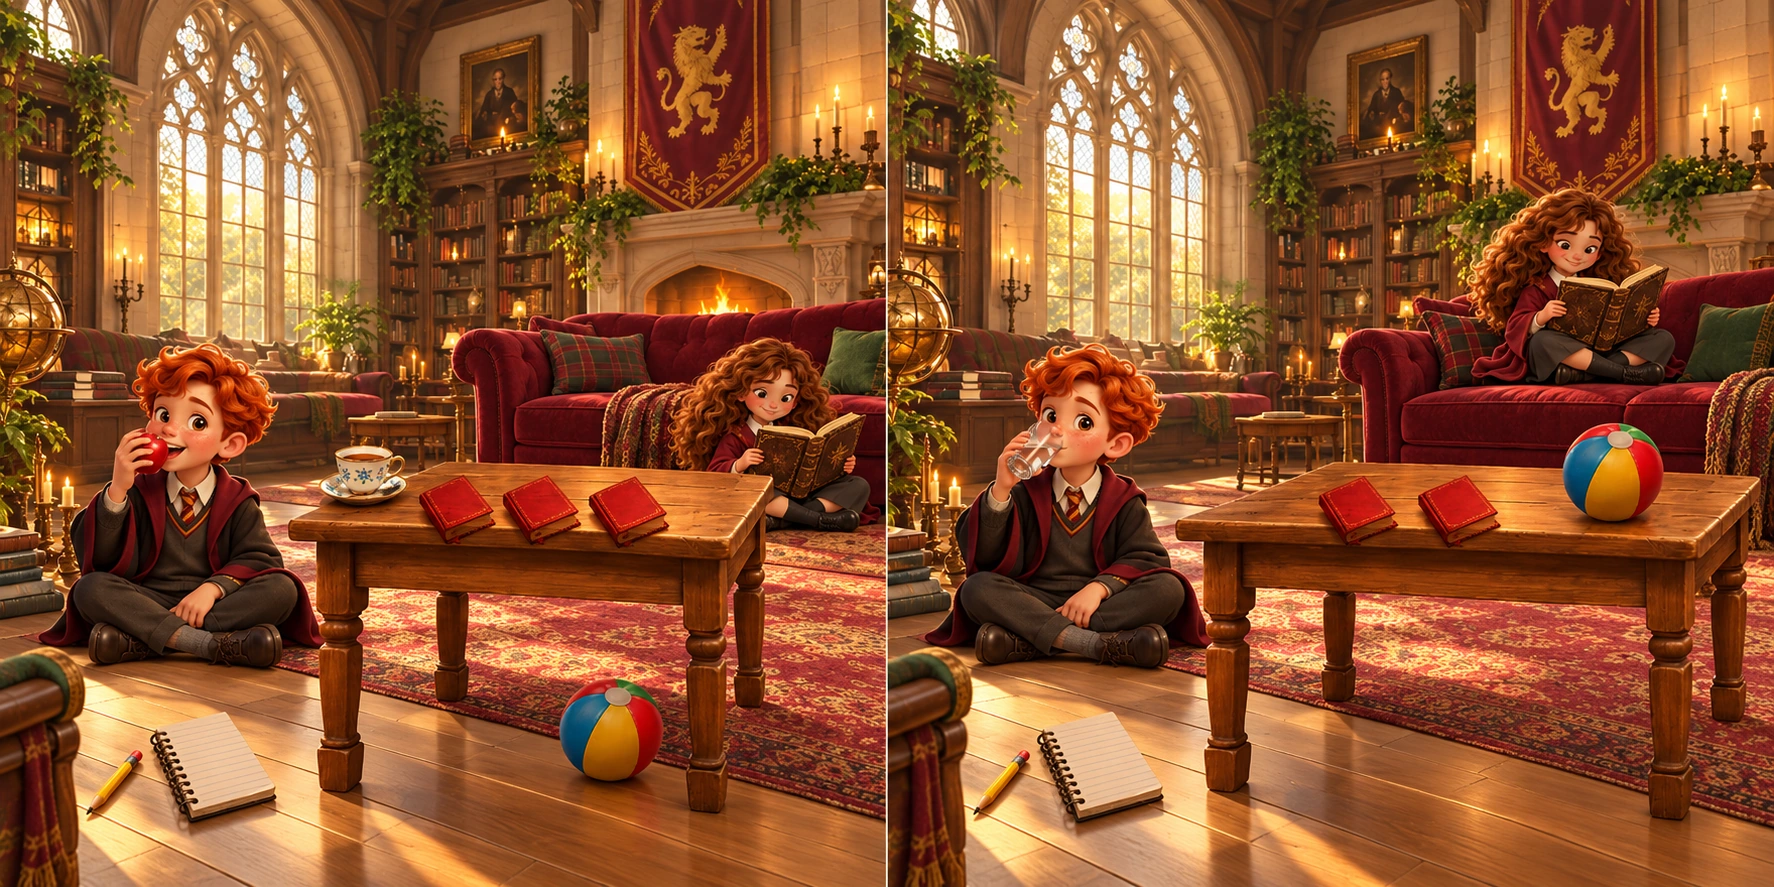
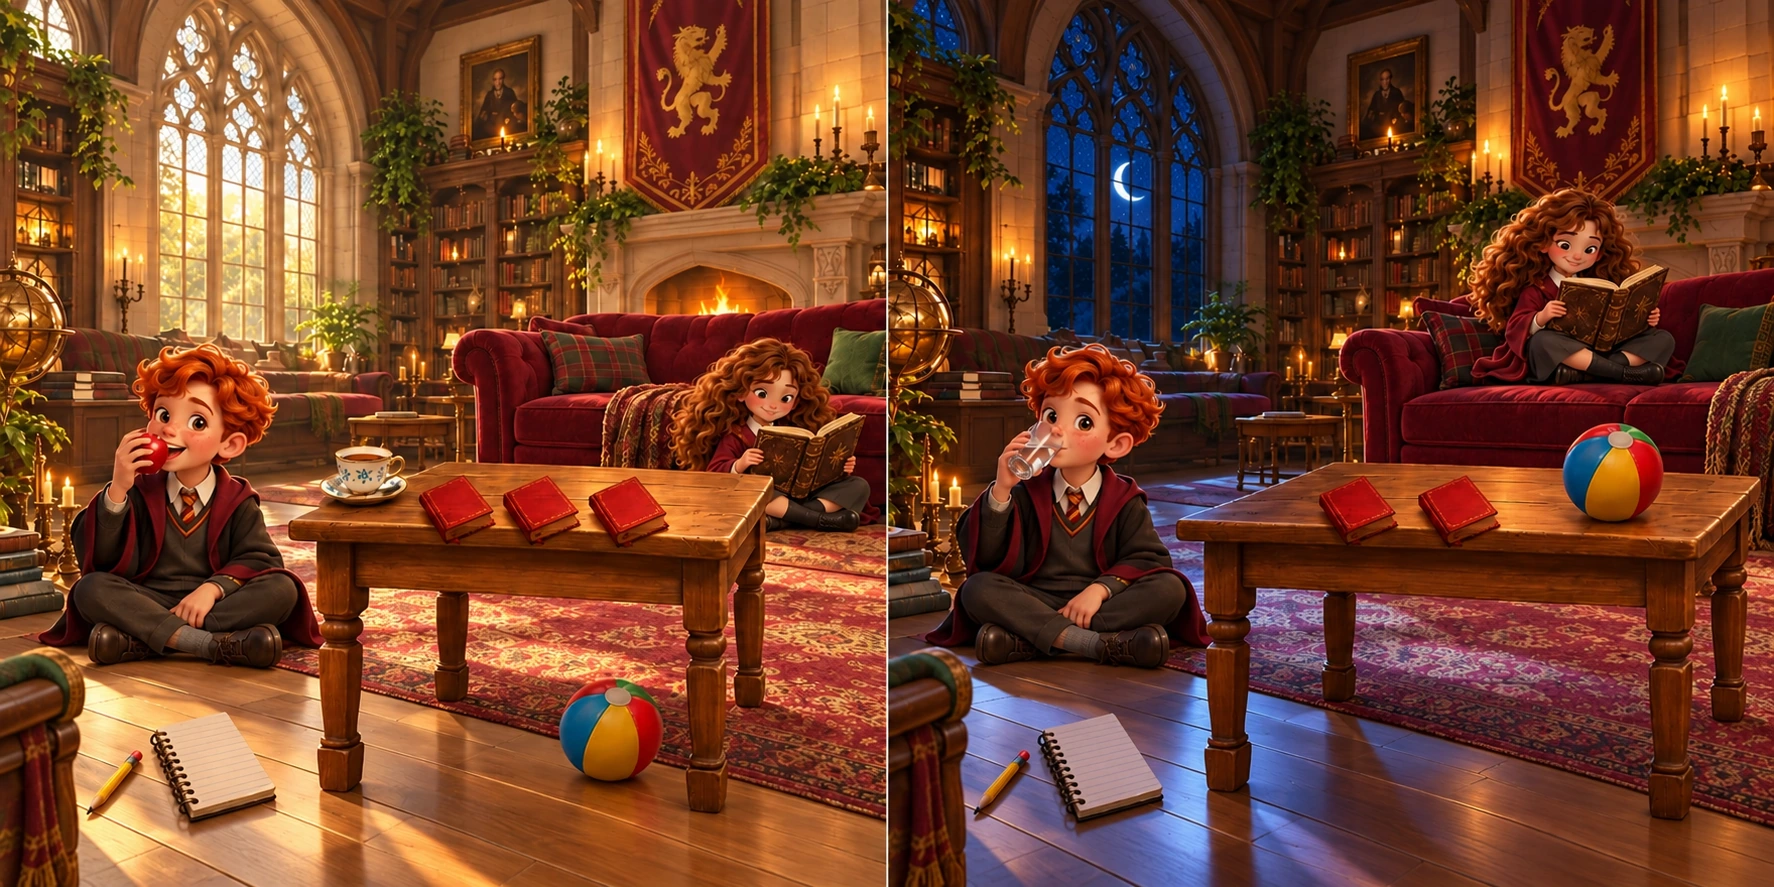
Make picture B nighttime and add day-night comparison as sixth difference

diff --git a/tests/browser/lesson.spec.ts b/tests/browser/lesson.spec.ts
@@ -400,17 +400,17 @@ test("teacher sees transcripts for every audio and each round", async ({
   await expect(page.getByTestId("audio-transcript")).toHaveCount(0);
 });
 
-test("spot five differences, oral examples, teacher grades and persistence", async ({
+test("spot six differences, oral examples, teacher grades and persistence", async ({
   page,
 }) => {
   await page.goto("/");
   await stage(page, 11);
   await expect(
     page.getByRole("heading", {
-      name: "Find the Differences — Spot 5 Differences",
+      name: "Find the Differences — Spot 6 Differences",
     }),
   ).toBeVisible();
-  await expect(page.locator(".difference-counter")).toContainText("0 / 5");
+  await expect(page.locator(".difference-counter")).toContainText("0 / 6");
   await expect(page.locator(".difference-scene").first()).toHaveCSS(
     "opacity",
     "1",
@@ -427,14 +427,14 @@ test("spot five differences, oral examples, teacher grades and persistence", asy
     "background-position",
     "100% 50%",
   );
-  await expect(page.locator(".difference-hotspot")).toHaveCount(10);
+  await expect(page.locator(".difference-hotspot")).toHaveCount(12);
   await page
     .getByRole("button", { name: "Compare area 1 in picture A", exact: true })
     .click();
   await page
     .getByRole("button", { name: "Compare area 1 in picture B", exact: true })
     .click();
-  await expect(page.locator(".difference-counter")).toContainText("1 / 5");
+  await expect(page.locator(".difference-counter")).toContainText("1 / 6");
   const card = page.locator(".difference-answer").first();
   await expect(
     card.getByRole("button", { name: "Show example" }),
@@ -444,32 +444,32 @@ test("spot five differences, oral examples, teacher grades and persistence", asy
   await expect(card.locator(".quote")).toContainText(
     "Ron is eating an apple, but in picture B, he is drinking water.",
   );
-  for (let i = 2; i <= 5; i++)
+  for (let i = 2; i <= 6; i++)
     await page
       .getByRole("button", {
         name: `Compare area ${i} in picture A`,
         exact: true,
       })
       .click();
-  await expect(page.locator(".difference-counter")).toContainText("5 / 5");
-  await expect(page.locator(".difference-hotspot.found")).toHaveCount(10);
+  await expect(page.locator(".difference-counter")).toContainText("6 / 6");
+  await expect(page.locator(".difference-hotspot.found")).toHaveCount(12);
   await page.getByRole("button", { name: "Teacher mode", exact: true }).click();
   for (const r of await page.locator(".rating").all())
     await r
       .getByRole("button", { name: "Answered independently", exact: true })
       .click();
   await page.reload();
-  await expect(page.locator(".difference-counter")).toContainText("5 / 5");
+  await expect(page.locator(".difference-counter")).toContainText("6 / 6");
   await page.getByRole("button", { name: "Teacher mode", exact: true }).click();
   await expect(page.locator(".rating button.chosen")).toHaveCount(4);
   await page.getByRole("button", { name: "Next", exact: true }).click();
-  await expect(page.getByText("Найдено: 5/5.", { exact: false })).toBeVisible();
+  await expect(page.getByText("Найдено: 6/6.", { exact: false })).toBeVisible();
   const download = page.waitForEvent("download");
   await page.getByRole("button", { name: "Download results (PDF)" }).click();
   expect(await (await download).failure()).toBeNull();
   await stage(page, 11);
   await page.getByRole("button", { name: "Find them again" }).click();
-  await expect(page.locator(".difference-counter")).toContainText("0 / 5");
+  await expect(page.locator(".difference-counter")).toContainText("0 / 6");
   await page.setViewportSize({ width: 390, height: 844 });
   expect(
     await page.evaluate(
@@ -546,7 +546,7 @@ test("revised fifth difference preserves four discoveries and teaches floor vers
     );
   });
   await page.goto("/");
-  await expect(page.locator(".difference-counter")).toContainText("4 / 5");
+  await expect(page.locator(".difference-counter")).toContainText("4 / 6");
   const card = page.locator(".difference-answer").nth(4);
   await expect(card.getByRole("button", { name: "Show example" })).toHaveCount(
     0,
@@ -554,7 +554,7 @@ test("revised fifth difference preserves four discoveries and teaches floor vers
   await page
     .getByRole("button", { name: "Compare area 5 in picture B", exact: true })
     .click();
-  await expect(page.locator(".difference-counter")).toContainText("5 / 5");
+  await expect(page.locator(".difference-counter")).toContainText("5 / 6");
   await expect(
     card.getByRole("button", { name: "Show example" }),
   ).toBeDisabled();
@@ -566,5 +566,53 @@ test("revised fifth difference preserves four discoveries and teaches floor vers
   await page.getByRole("button", { name: "Teacher mode", exact: true }).click();
   await expect(card.locator(".teacher-note")).toContainText(
     "Гермиона сидит на полу / на диване",
+  );
+});
+
+test("day and night is a sixth difference and preserves earlier finds", async ({
+  page,
+}) => {
+  await page.addInitScript(() => {
+    if (!localStorage.getItem("hogwarts-english-v1"))
+      localStorage.setItem(
+        "hogwarts-english-v1",
+        JSON.stringify({
+          version: 2,
+          data: {
+            step: 11,
+            name: "Alice",
+            answers: {
+              differencesFound: [0, 1, 2, 3, 4],
+              differencesSceneVersion: 2,
+            },
+            scores: {},
+            ratings: {},
+          },
+        }),
+      );
+  });
+  await page.goto("/");
+  await expect(page.locator(".difference-counter")).toContainText("5 / 6");
+  await page
+    .getByRole("button", { name: "Compare area 6 in picture B", exact: true })
+    .click();
+  await expect(page.locator(".difference-counter")).toContainText("6 / 6");
+  const card = page.locator(".difference-answer").nth(5);
+  await expect(
+    card.getByRole("heading", { name: "6. Day or night?" }),
+  ).toBeVisible();
+  await expect(
+    card.getByRole("button", { name: "Show example" }),
+  ).toBeDisabled();
+  await card.getByRole("button", { name: "I have tried!" }).click();
+  await card.getByRole("button", { name: "Show example" }).click();
+  await expect(card.locator(".quote")).toHaveText(
+    "In picture A, it is daytime, but in picture B, it is night.",
+  );
+  await page.reload();
+  await expect(page.locator(".difference-counter")).toContainText("6 / 6");
+  await page.getByRole("button", { name: "Teacher mode", exact: true }).click();
+  await expect(card.locator(".teacher-note")).toContainText(
+    "В A день, в B ночь",
   );
 });

diff --git a/src/Differences.tsx b/src/Differences.tsx
@@ -41,7 +41,15 @@ export const differences = [
     hint: "Where is Hermione sitting?",
     ru: "Гермиона сидит на полу / на диване: is sitting on the floor / on the sofa.",
   },
+  {
+    title: "Day or night?",
+    skill: "Time of day + comparison",
+    example: "In picture A, it is daytime, but in picture B, it is night.",
+    hint: "Look through the window. What time of day is it?",
+    ru: "В A день, в B ночь: daytime / night. За окном видны луна и звёзды.",
+  },
 ];
+export const differenceCount = differences.length;
 export const differenceSkills = [
   ["comparison", "Comparing pictures", "Сравнение с but, in picture A / B"],
   [
@@ -76,6 +84,7 @@ function Scene({
     isA
       ? { left: 75, top: 37, width: 24, height: 24 }
       : { left: 65, top: 21, width: 28, height: 25 },
+    { left: 10, top: 2, width: 32, height: 33 },
   ];
   return (
     <figure className="difference-figure">
@@ -85,7 +94,7 @@ function Scene({
       </figcaption>
       <div
         className="difference-scene"
-        aria-label={`Picture ${variant}: a school common room. Find five differences.`}
+        aria-label={`Picture ${variant}: a school common room. Find ${differenceCount} differences.`}
         style={{ backgroundPosition: isA ? "left center" : "right center" }}
       >
         {areas.map((area, i) => (
@@ -128,7 +137,7 @@ export default function Differences({
         (n): n is number =>
           Number.isInteger(n) &&
           n >= 0 &&
-          n < 5 &&
+          n < differenceCount &&
           (answers.differencesSceneVersion === 2 || n !== 4),
       )
     : [];
@@ -150,14 +159,16 @@ export default function Differences({
     <>
       <section className="panel difference-intro">
         <span className="eyebrow">BONUS CHALLENGE · A2–B1 · 5–7 MINUTES</span>
-        <h2>Find the Differences — Spot 5 Differences</h2>
+        <h2>Find the Differences — Spot {differenceCount} Differences</h2>
         <p>
-          Look at pictures A and B. Find five differences. Tap each one, then
-          tell your teacher!
+          Look at pictures A and B. Find {differenceCount} differences. Tap each
+          one, then tell your teacher!
         </p>
         <div className="difference-counter" role="status">
-          {found.length} / 5 differences found
-          {found.length === 5 ? " · Fantastic detective work!" : ""}
+          {found.length} / {differenceCount} differences found
+          {found.length === differenceCount
+            ? " · Fantastic detective work!"
+            : ""}
         </div>
         <p className="micro">
           Use “but” to compare. Tap the matching area in either picture. You can
@@ -175,7 +186,7 @@ export default function Differences({
           <summary>Help me with words</summary>
           <p>
             eating · drinking · apple · water · books · a cup of tea · ball ·
-            Hermione · floor · sofa
+            Hermione · floor · sofa · daytime · night · moon · stars
           </p>
           <p>
             on · under · sitting on the floor · sitting on the sofa · there is ·
@@ -190,7 +201,7 @@ export default function Differences({
               onAnswer(`differenceAttempt${i}`, false);
               onAnswer(`differenceExample${i}`, false);
             });
-            setMessage("Look again! Can you find all five?");
+            setMessage(`Look again! Can you find all ${differenceCount}?`);
           }}
         >
           Find them again

diff --git a/src/App.tsx b/src/App.tsx
@@ -30,7 +30,7 @@ import {
 import type { LessonState, Skill } from "./data";
 import { Character, Castle, ArtIcon, MoodFace, IllustratedText } from "./Art";
 import { Choice, Match, Order } from "./components";
-import Differences, { differenceSkills } from "./Differences";
+import Differences, { differenceSkills, differenceCount } from "./Differences";
 
 const storageKey = "hogwarts-english-v1";
 function load(): LessonState {
@@ -69,7 +69,7 @@ const notes = [
   "Аудирование · 3 минуты. Дайте прослушать запись 1–2 раза. Не открывайте текст до попытки. Ответы: Ron, Harry, Hermione, Hagrid, Dumbledore. Если синтеза речи нет, прочитайте текст сами.",
   "Лексика · 3 минуты. Попросите назвать предметы и сформулировать There is / There are. Оцениваются три набора и два предложения.",
   "Связный рассказ · 3 минуты. Дайте ребёнку время составить 4–5 предложений. Оцените самостоятельность и связь предложений.",
-  "Дополнительное задание A2–B1 · 5–7 минут. Найдите пять отличий: яблоко/вода у Рона; три/две книги; мяч под/на столе; чашка есть/нет; Гермиона сидит на полу/на диване. Оценивайте устное сравнение и грамматику отдельно от основной диагностики.",
+  "Дополнительное задание A2–B1 · 5–7 минут. Найдите шесть отличий: яблоко/вода у Рона; три/две книги; мяч под/на столе; чашка есть/нет; Гермиона сидит на полу/на диване; в A день, в B ночь. Оценивайте устное сравнение и грамматику отдельно от основной диагностики.",
   "Итоги · 2 минуты. Сначала обсудите успехи, затем рекомендации. Уровень появляется только после выполнения всех диагностических заданий и ручных оценок. Это предварительная оценка, а не официальный тест.",
 ];
 export default function App() {
@@ -1305,7 +1305,8 @@ export default function App() {
                           {Array.isArray(state.answers.differencesFound)
                             ? state.answers.differencesFound.length
                             : 0}
-                          /5. Оценки не входят в основной уровень A1–A2.
+                          /{differenceCount}. Оценки не входят в основной
+                          уровень A1–A2.
                         </p>
                         {differenceSkills.map(([id, title]) => (
                           <p key={id}>

diff --git a/src/pdf.ts b/src/pdf.ts
@@ -1,6 +1,6 @@
 import { jsPDF } from "jspdf";
 import { diagnose } from "./data";
-import { differenceSkills } from "./Differences";
+import { differenceSkills, differenceCount } from "./Differences";
 import type { LessonState } from "./data";
 function safeName(name: string) {
   return name.replace(/[^\x20-\x7E]/g, "").trim() || "Young wizard";
@@ -119,7 +119,7 @@ export async function downloadPDF(state: LessonState, certificate = false) {
     doc.text("Find the Differences - A2-B1 bonus", 22, 30);
     doc.setFontSize(12);
     doc.text(
-      `Differences spotted: ${Array.isArray(state.answers.differencesFound) ? state.answers.differencesFound.length : 0}/5`,
+      `Differences spotted: ${Array.isArray(state.answers.differencesFound) ? state.answers.differencesFound.length : 0}/${differenceCount}`,
       22,
       48,
     );

diff --git a/src/data.ts b/src/data.ts
@@ -170,7 +170,7 @@ export const stages = [
   ["Mystery voices", "Listen. Think. Discover.", "🎧"],
   ["The school bag", "Pack a little knowledge", "🎒"],
   ["My magic day", "Your very own story", "🌤"],
-  ["Find the differences", "Spot 5 Differences · A2–B1", "🔎"],
+  ["Find the differences", "Spot 6 Differences · A2–B1", "🔎"],
   ["Congratulations!", "Every little step is magic", "🏆"],
 ];
 export type Skill =

diff --git a/README.md b/README.md
@@ -76,6 +76,6 @@ npm run test:e2e
 
 ## Find the Differences · A2–B1
 
-Дополнительная глава перед итогами, 5–7 минут сверх основного урока. На двух картинках пять изменений: Рон ест яблоко / пьёт воду; на столе три / две книги; мяч под / на столе; чашка чая есть / отсутствует; Гермиона сидит на полу / на диване. Нажатие на соответствующую область любой картинки отмечает находку сразу на обеих. Повторное нажатие не увеличивает счёт. Доступно управление Tab и Enter.
+Дополнительная глава перед итогами, 5–7 минут сверх основного урока. На двух картинках шесть изменений: Рон ест яблоко / пьёт воду; на столе три / две книги; мяч под / на столе; чашка чая есть / отсутствует; Гермиона сидит на полу / на диване; в A день, в B ночь с луной за окном. Нажатие на соответствующую область любой картинки отмечает находку сразу на обеих. Повторное нажатие не увеличивает счёт. Доступно управление Tab и Enter.
 
 После находки ребёнок описывает её устно. Кнопка **I have tried!** открывает возможность показать образец. Подсказки учат сравнивать с **but**, использовать **there is/are**, предлоги места и **Present Continuous**. В режиме преподавателя видны все ответы и четыре отдельные ручные оценки. Их сводка показана в итогах и на дополнительной странице PDF. Количество находок само по себе не оценивает английский; глава не меняет основной расчёт A1–A2 и не подтверждает B1. Все ответы и отметки сохраняются. Старый прогресс автоматически переносится в новую структуру из 13 глав.

diff --git a/public/art/README.md b/public/art/README.md
@@ -8,4 +8,4 @@ Original generated artwork for this educational project, in a consistent warm ci
 
 CSS displays individual cells using background positions, preserving aspect ratio. Emoji in lesson data are stable internal tokens for saved answers; `ArtIcon` and `IllustratedText` render them as illustrations, not platform-dependent emoji glyphs. Rendering changes must preserve existing localStorage identifiers and scoring logic.
 
-- `differences.webp`: two side-by-side finished square common-room illustrations with fully opaque RGB backgrounds. Five differences: Ron’s action, book count, ball location, cup presence, and Hermione sitting on the floor / on the sofa. Notebook and pencil are identical distractors. Interactive regions are mapped in `src/Differences.tsx`.
+- `differences.webp`: two side-by-side finished square common-room illustrations with fully opaque RGB backgrounds. Six differences: Ron’s action, book count, ball location, cup presence, Hermione sitting on the floor / on the sofa, and daytime / nighttime through the window. Notebook and pencil are identical distractors. Interactive regions are mapped in `src/Differences.tsx`.
